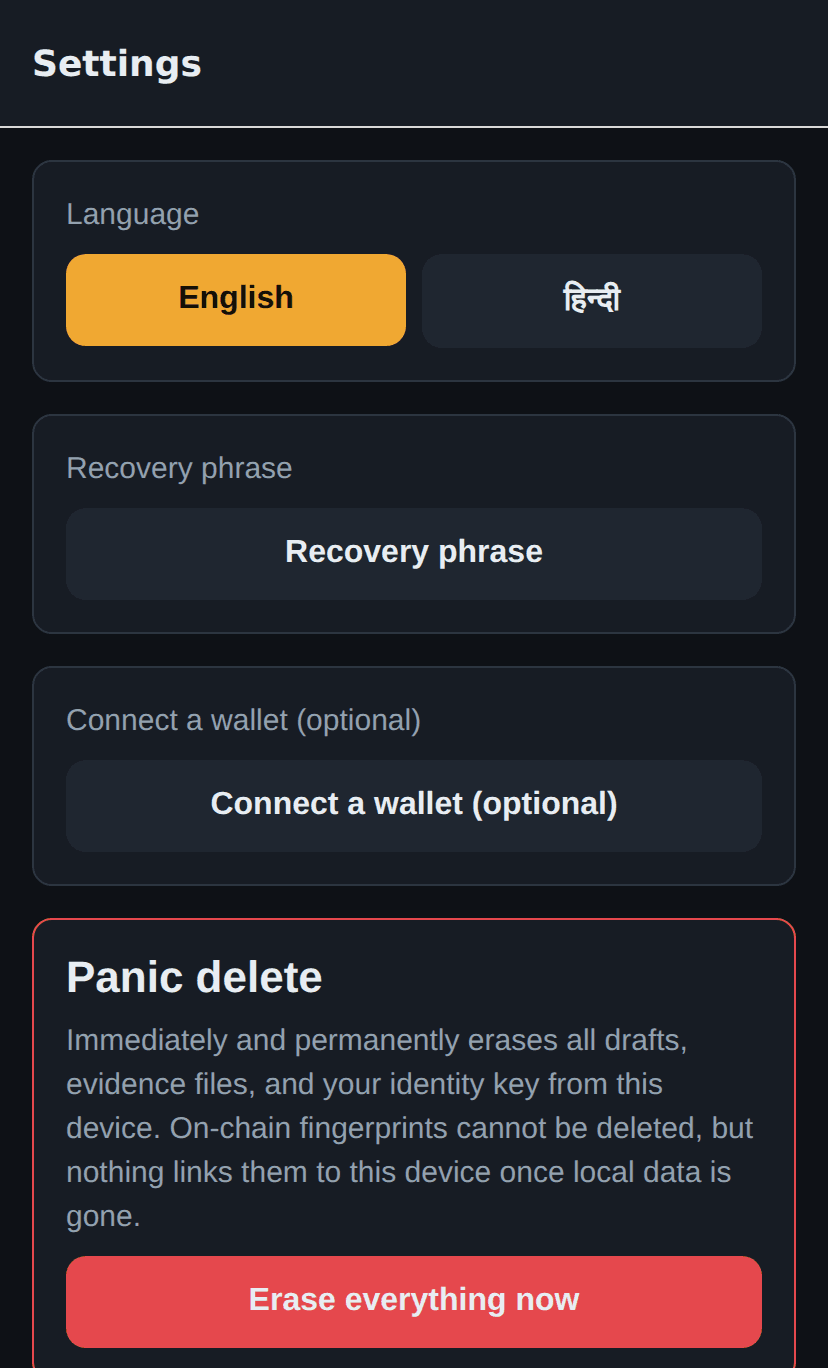
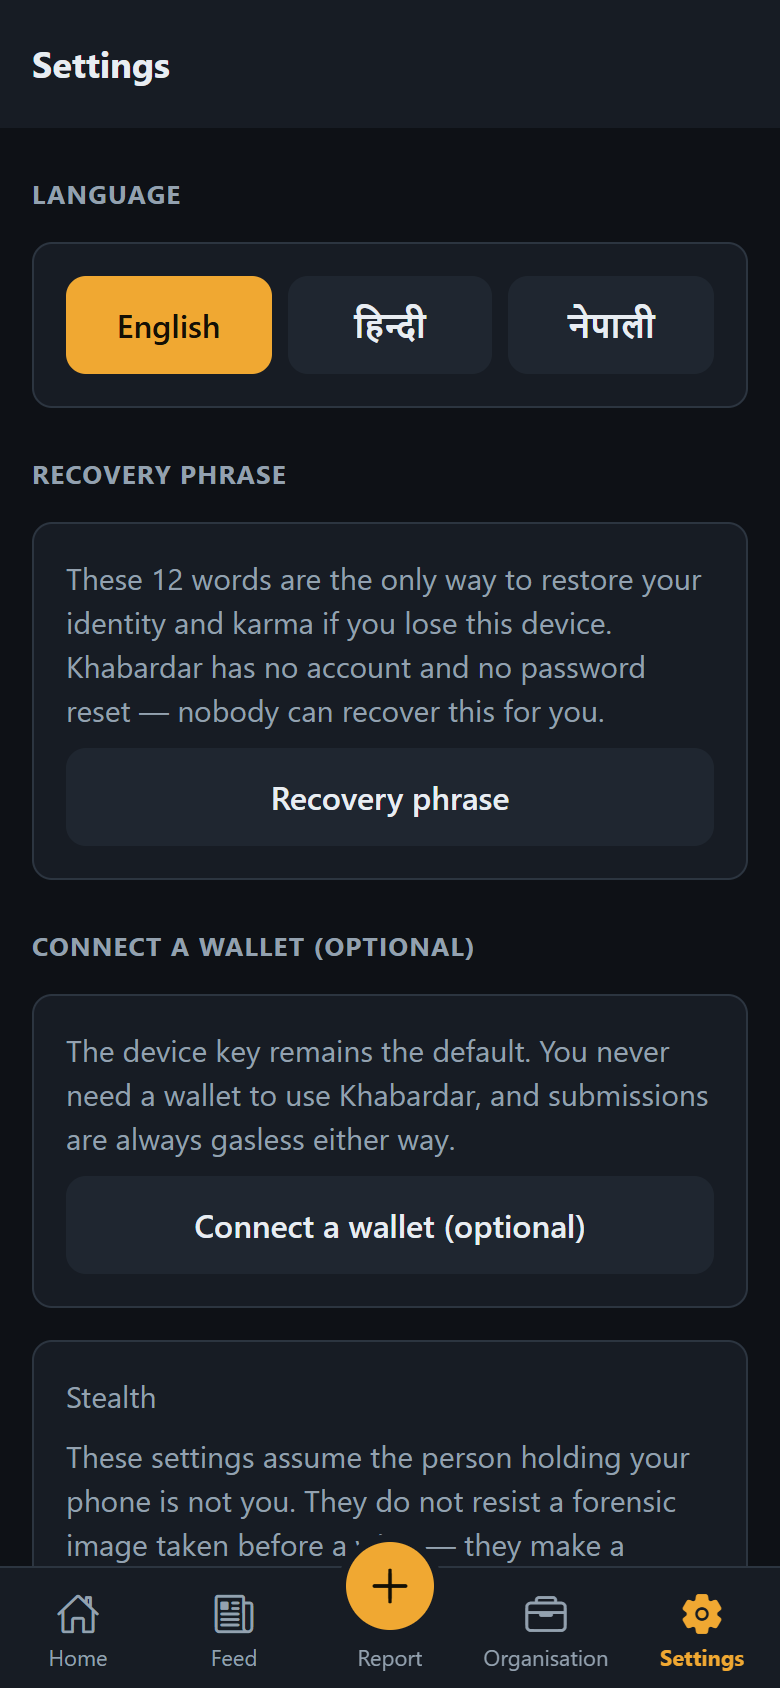
Refresh the README for v0.2
The warning now says what is missing about Tor rather than that there is
no transport. The status table gains the privacy check with its measured
numbers, and Tor moves to built but unproven on a device. Test counts,
the walk-through, the threat table, the project tree, the roadmap and
the limitations are brought up to date. Screenshots are retaken from the
current build at phone size, with the sample report cleaned up by the
privacy check first.

diff --git a/README.md b/README.md
@@ -26,7 +26,8 @@ and without the app ever learning your name, phone number, or email.
 
 > [!WARNING]
 > **Do not use this for real reports yet.** Khabardar is a v0 prototype. It has not been
-> audited, and it has no anonymising network transport, so a targeted user could be
+> audited, and its built-in Tor client has not yet carried a report from a real phone.
+> The web preview has no Tor at all. Until that is proven, a targeted user could be
 > deanonymized at the network layer no matter how good the cryptography is. If you are
 > genuinely at risk, use [SecureDrop](https://securedrop.org) or
 > [GlobaLeaks](https://www.globaleaks.org). See [SECURITY.md](./SECURITY.md).
@@ -36,16 +37,16 @@ and without the app ever learning your name, phone number, or email.
 <div align="center">
 <table>
 <tr>
-<td width="25%"><img src="./docs/media/onboarding.png" alt="Onboarding: no name, phone, or email is ever requested"></td>
-<td width="25%"><img src="./docs/media/home.png" alt="Home screen showing a derived codename instead of an address"></td>
-<td width="25%"><img src="./docs/media/compose.png" alt="Composing a report with category and visibility controls"></td>
-<td width="25%"><img src="./docs/media/moderation.png" alt="Moderation review queue"></td>
+<td width="25%"><img src="./docs/media/onboarding.png" alt="Welcome screen: no name, phone, or email is ever requested"></td>
+<td width="25%"><img src="./docs/media/privacy.png" alt="Privacy check highlighting a phone number, an email, a unique role, a date and a time in a draft report"></td>
+<td width="25%"><img src="./docs/media/home.png" alt="Home screen showing a derived codename and the connection status"></td>
+<td width="25%"><img src="./docs/media/feed.png" alt="Public feed with the redacted report and its verification tier"></td>
 </tr>
 <tr>
 <td align="center"><sub><b>No signup</b><br>A device key is the whole identity</sub></td>
-<td align="center"><sub><b>Codename, not address</b><br>Karma is earned, never bought</sub></td>
-<td align="center"><sub><b>Compose</b><br>Entity name never leaves the device</sub></td>
-<td align="center"><sub><b>Moderation</b><br>Tier can change; content cannot</sub></td>
+<td align="center"><sub><b>Privacy check</b><br>Finds what would identify you, on the phone</sub></td>
+<td align="center"><sub><b>Codename, not address</b><br>Says plainly when the connection is direct</sub></td>
+<td align="center"><sub><b>Public feed</b><br>Every report shows its verification tier</sub></td>
 </tr>
 </table>
 
@@ -58,8 +59,9 @@ honest answer to "can I use my own wallet?" is "yes, and it will weaken you."</s
 
 ## Status
 
-Working end-to-end today: compose → encrypt → upload to the content layer → anchor hash
-+ CID via a gasless transaction → read back in a public feed with an integrity check.
+Working end-to-end today: compose → privacy check → encrypt → upload to the content layer →
+anchor hash + CID via a gasless transaction → read back in a public feed with an integrity
+check → a newsroom exports a case file anyone can verify.
 Also wired: embedded Tor, a secret-ballot jury, zero-knowledge personhood, stealth mode,
 an offline submission queue, entity clustering, an encrypted tip channel, BIP-39
 recovery, and an optional WalletConnect identity.
@@ -69,8 +71,9 @@ credentials**.
 
 | | |
 |---|---|
-| ✅ **Built and verified** | Anonymity core, chain layer (73 contract tests), content layer, public feed, secret-ballot jury, tips, gasless abstraction, evidence upload with progress, stealth mode, offline queue, mobile design system, i18n (EN + HI) |
-| ✅ **Embedded Tor** | Arti compiled in (`modules/expo-tor`), loopback SOCKS5, hostnames resolved at the exit so there is no local DNS leak, a fresh circuit per submission, and a fail-closed switch that refuses to send rather than leak |
+| ✅ **Built and verified** | Anonymity core, chain layer (75 contract tests), content layer, public feed, secret-ballot jury, tips, gasless abstraction, evidence upload with progress, stealth mode, offline queue, mobile design system, i18n (EN + HI) |
+| ✅ **Privacy check** | On-device leak checker for phone numbers, emails, IDs, names, addresses and quieter details such as a unique role or an exact time. 92% precision and 77% recall on its own evaluation set, with the limits of that set in [docs/LEAK_CHECKER.md](./docs/LEAK_CHECKER.md). Photo metadata is checked after re-encoding; faces and visible text are not checked yet |
+| 🟡 **Embedded Tor, not yet proven on a device** | Arti compiled in (`modules/expo-tor`), loopback SOCKS5, hostnames resolved at the exit so there is no local DNS leak, a fresh circuit per submission, and a fail-closed switch that refuses to send rather than leak. The SOCKS layer is tested, but no report has yet travelled over the live Tor network from a phone |
 | 🟡 **Built, never run on real infrastructure** | Pimlico SimpleAccount + receipt polling, IPFS pinning, the indexer endpoint contract. Needs a Sepolia deploy (#2), a funded sponsorship policy (#5), a live pin provider (#6), and an indexer (#15) |
 | 🟡 **Built, not yet proven on a device** | On-device Groth16 proving (`modules/expo-zkprove`). The Android library builds and the core is verified against the reference implementation, but it has not run on real hardware |
 | ❌ **Not started** | C2PA provenance, billing and accreditation backend, independent security audit |
@@ -90,14 +93,17 @@ git clone https://github.com/sailenceresw/khabardar.git
 cd khabardar
 npm install
 
-npm run contracts:test                        # 23 passing
+npm run contracts:test                        # 75 passing
+npm test                                      # 344 unit tests
+npm run eval:leaks                            # privacy check precision and recall
 npm run verify:slice --workspace apps/mobile  # headless end-to-end slice
 npm run mobile:web                            # dev server with hot reload
 ```
 
-Then walk the slice: create identity → **New report** → fill category/body/area →
-**Review & submit** → watch it anchor (simulated tx via `MockRelayer`) → the status
-screen shows the report fingerprint and tx hash.
+Then walk the slice: create identity → **New report** → write the report → **Review &
+submit** → the privacy check → **Continue to review** → **Submit anonymously** → the status
+screen shows the report fingerprint and a simulated transaction from `MockRelayer`. For a
+timed, click-by-click version, see [docs/pitch/DEMO_SCRIPT.md](./docs/pitch/DEMO_SCRIPT.md).
 
 <details>
 <summary><b>Other ways to run it</b></summary>
@@ -179,6 +185,7 @@ payment step.
 | Threat | Mitigation |
 |---|---|
 | Identity leakage at signup | No PII collected, device keypair only (`src/identity.ts`) |
+| Identifying details in the report text | On-device privacy check before review; nothing is sent to be checked (`packages/shared/src/leaks/`, `app/compose/privacy.tsx`) |
 | EXIF/GPS in evidence | Client-side re-encode before anything is stored (`src/evidence.ts`) |
 | Precise location in report | Geohash hard-capped at 4 chars ≈ city level (`src/geo.ts`) |
 | Device seizure | AES-256-GCM at rest + **panic delete** wipes drafts, evidence, keys, identity (`src/panic.ts`) |
@@ -220,7 +227,9 @@ khabardar/
 │   ├── contracts/         # Hardhat + Solidity (ReportRegistry.sol) → Linea
 │   └── shared/            # chain config, ABI, TypeScript types shared app↔contracts
 ├── docs/
-│   └── ARCHITECTURE.md    # anonymity model, chain, content, gasless, moderation
+│   ├── ARCHITECTURE.md    # anonymity model, chain, content, gasless, moderation
+│   ├── LEAK_CHECKER.md    # what the privacy check finds, misses, and how it scores
+│   └── pitch/             # demo script, deck outline, Q&A prep
 ├── BUSINESS.md            # revenue model, unit economics, honest build status
 └── .env.example           # every env var documented
 ```
@@ -231,7 +240,7 @@ Tracked as [issues](https://github.com/sailenceresw/khabardar/issues), grouped b
 
 | Phase | Focus |
 |---|---|
-| [`v0.1-testnet`](https://github.com/sailenceresw/khabardar/issues?q=is%3Aissue+is%3Aopen+label%3Av0.1-testnet) | Stop being a mock: deploy to Linea Sepolia, real sponsored gas, real IPFS; UI polish remaining (#33, #34) |
+| [`v0.1-testnet`](https://github.com/sailenceresw/khabardar/issues?q=is%3Aissue+is%3Aopen+label%3Av0.1-testnet) | Stop being a mock: deploy to Linea Sepolia, real sponsored gas, real IPFS |
 | [`v0.2-anonymity`](https://github.com/sailenceresw/khabardar/issues?q=is%3Aissue+is%3Aopen+label%3Av0.2-anonymity) | Tor transport, proof-of-personhood, tip padding and forward secrecy, verifiable recipient keys, stealth mode |
 | [`v0.3-scale`](https://github.com/sailenceresw/khabardar/issues?q=is%3Aissue+is%3Aopen+label%3Av0.3-scale) | Real indexer, karma-weighted jury, publicly auditable moderation log, large/audio/document evidence |
 | [`v1.0-launch`](https://github.com/sailenceresw/khabardar/issues?q=is%3Aissue+is%3Aopen+label%3Av1.0-launch) | Demo data removed, external audit, org billing backend, C2PA provenance, more languages |
@@ -273,6 +282,10 @@ does not exist:
   the web preview cannot load it, and there the app is unprotected and says so.
 - On-device zero-knowledge proving has never run on real hardware.
 - Entity tags are reversible by dictionary attack, which is an accepted trade-off.
+- The privacy check matches patterns. It misses paraphrased roles, names outside its
+  lists, Devanagari script and numbers written as words, and does not look at faces or
+  text inside photos.
+- Only vanilla Tor bridges are supported, so where Tor is censored bootstrap may fail.
 - The jury's decision log is device-local, so verdicts are not yet publicly auditable.
 - The web build's SecureStore fallback is localStorage, which is **dev preview only**.
 - Demo recipient keys, sample feed rows, and demo sponsor pools ship in this build and

diff --git a/docs/pitch/DEMO_SCRIPT.md b/docs/pitch/DEMO_SCRIPT.md
@@ -25,7 +25,7 @@ The demo runs in mock mode. Nothing is sent to a blockchain or to IPFS, and both
 | 0:45 | On Home, click **New report**. Paste the text into the report box. | Here is a report written the way a real person writes it. It is honest, and it would get them identified. |
 | 1:00 | Click **Review & submit**. | Before review, the privacy check runs. It runs on the phone and sends nothing anywhere. |
 | 1:05 | Point at the five highlighted findings. | It found the phone number and the email, and also the quieter things: "the only accountant in the office" narrows it to one person, and an exact date and time do the same. |
-| 1:20 | On the phone number and the email, click **Redact**. On "the only accountant", click **Fix** and change it to "a staff member", then **Save**. On the date and time, click **Keep anyway**. | The reporter decides. Nothing is blocked; some details are part of the story. |
+| 1:20 | On the phone number and the email, click **Redact**. On "the only accountant", click **Fix** and change it to "I work in the office", then **Save**. On the date and time, click **Keep anyway**. | The reporter decides. Nothing is blocked; some details are part of the story. |
 | 1:40 | Click **Continue to review**. | |
 | 1:45 | On **Your connection is not protected**, click **Send unprotected anyway**. | The phone app routes everything through Tor. The browser cannot, so the app says so and makes you choose. |
 | 1:55 | Click **Submit anonymously**. Point at **Report fingerprint**, then at the yellow note under it that starts "Simulated". | The report is encrypted, and only this fingerprint goes on the chain. This build is in mock mode, so the app says plainly that nothing went to a chain. |

diff --git a/docs/pitch/DECK_OUTLINE.md b/docs/pitch/DECK_OUTLINE.md
@@ -2,7 +2,7 @@
 
 Ten slides for a five minute pitch, with the live demo from [DEMO_SCRIPT.md](./DEMO_SCRIPT.md) between slides 4 and 5. Each slide has a headline, what goes on it, and what to say. Every number comes from the repo and has its source next to it, so a judge who asks can be shown where it came from. Answers to the likely follow-up questions are in [QA_PREP.md](./QA_PREP.md).
 
-The images in `docs/media/` predate the redesigned screens. Take fresh screenshots from the web build at phone width before building the deck.
+Screenshots of the current screens at phone size are in `docs/media/`.
 
 ## 1. Khabardar
 
